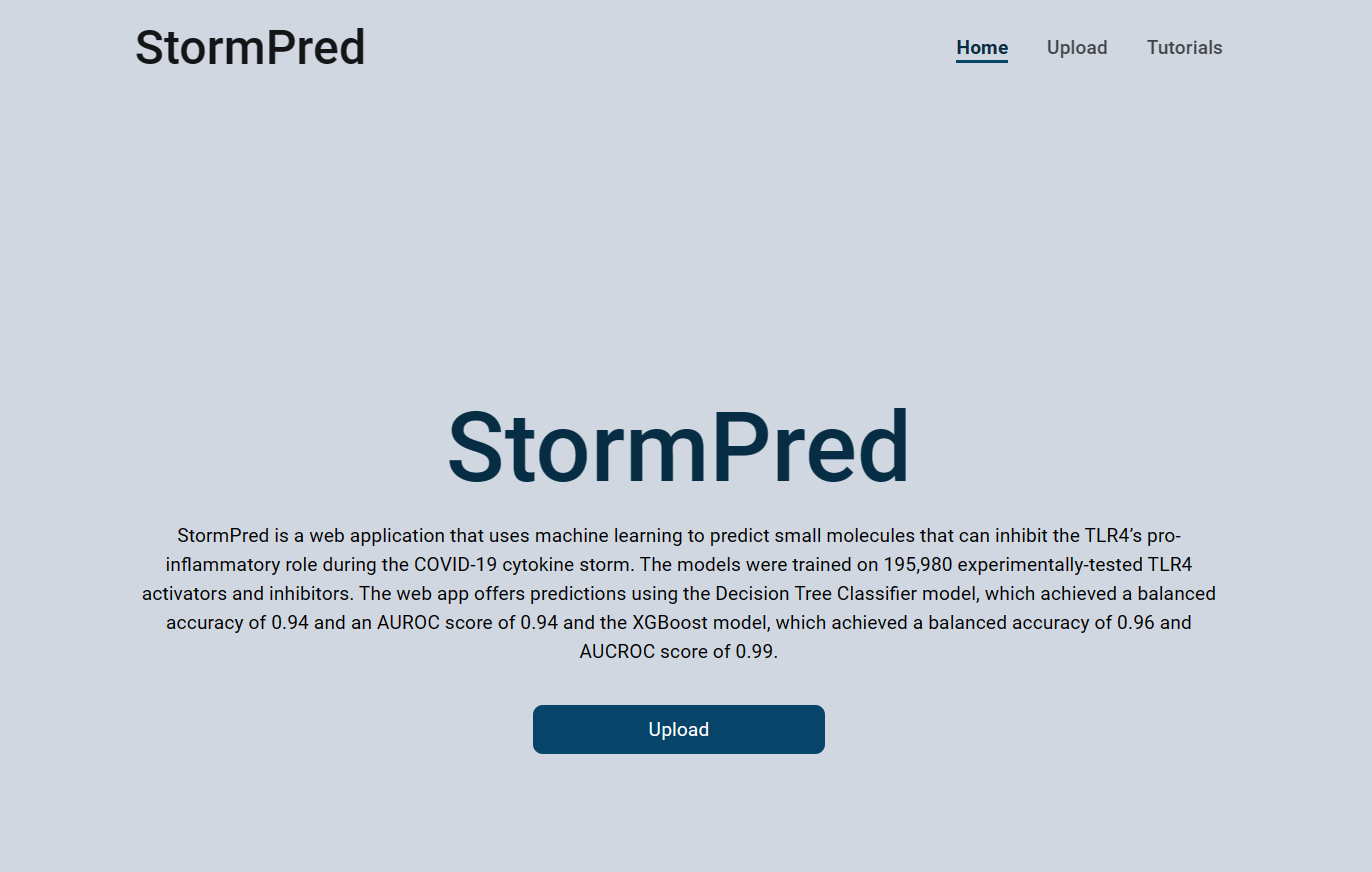
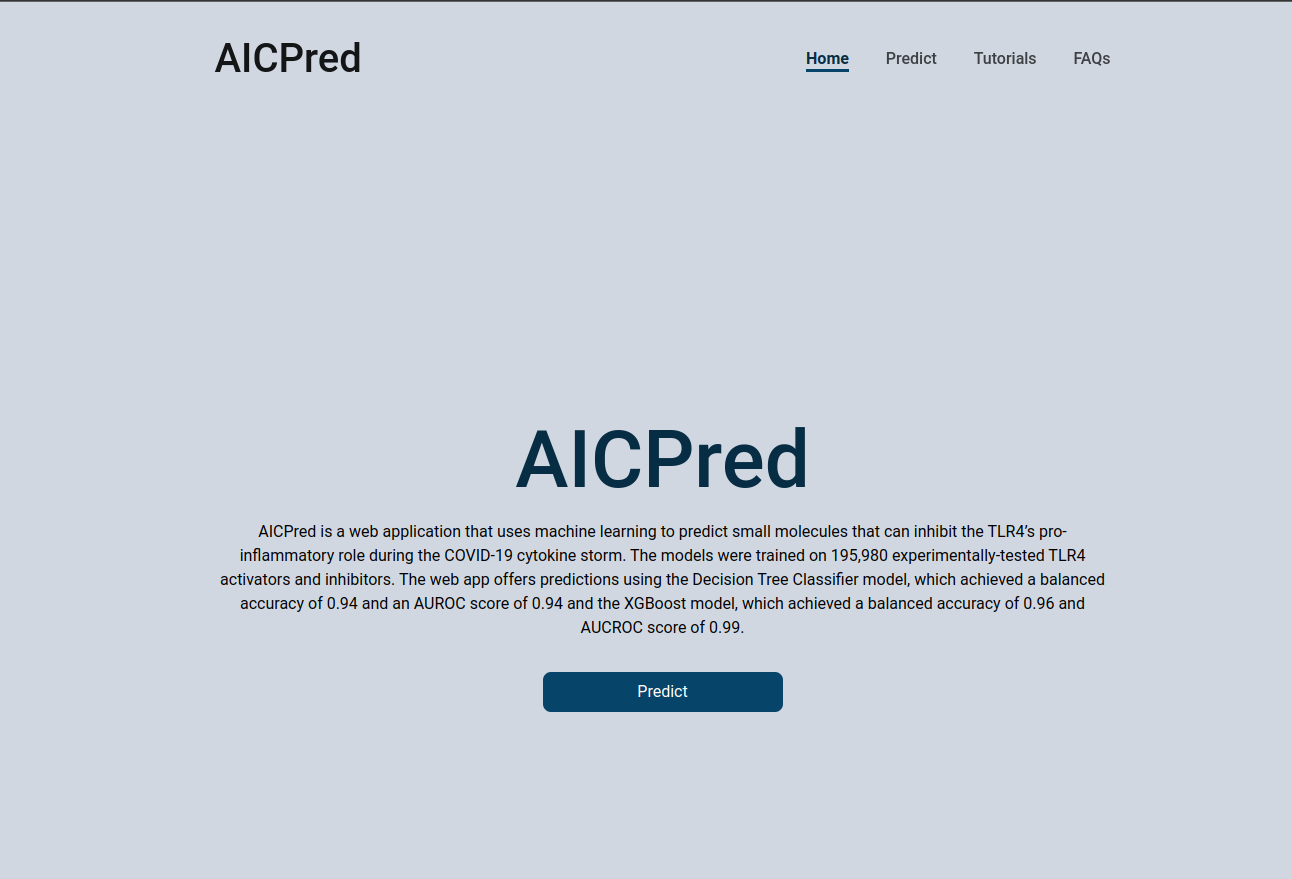
change stormpred --> aicpred

diff --git a/covidml/templates/home.html b/covidml/templates/home.html
@@ -14,10 +14,10 @@
 
 {% block content %}
   <section class="hero-section" aria-labelledby="hero-section-title">
-    <h2 id="hero-section-title">StormPred</h2>
+    <h2 id="hero-section-title">AICPred</h2>
 
     <div class="hero-section__content">
-      <p>StormPred is a web application that uses machine learning to predict small molecules that can inhibit the TLR4’s pro-inflammatory role during the COVID-19 cytokine storm. The models were trained on 195,980 experimentally-tested TLR4 activators and inhibitors. The web app offers predictions using the Decision Tree Classifier model, which achieved a balanced accuracy of 0.94 and an AUROC score of 0.94 and the XGBoost model, which achieved a balanced accuracy of 0.96 and AUCROC score of 0.99.</p>
+      <p>AICPred is a web application that uses machine learning to predict small molecules that can inhibit the TLR4’s pro-inflammatory role during the COVID-19 cytokine storm. The models were trained on 195,980 experimentally-tested TLR4 activators and inhibitors. The web app offers predictions using the Decision Tree Classifier model, which achieved a balanced accuracy of 0.94 and an AUROC score of 0.94 and the XGBoost model, which achieved a balanced accuracy of 0.96 and AUCROC score of 0.99.</p>
 
       <a class="btn" href="/upload">Predict</a>
     </div>

diff --git a/covidml/templates/upload.html b/covidml/templates/upload.html
@@ -54,7 +54,7 @@
 
       <div class="upload-section__form-tabpanel" role="tabpanel" role="tabpanel" id="smiles-tabpanel" aria-labelledby="smiles-tab" data-active="false">
         <div class="upload-section__form-container">
-          <h2 class="section-title">StormPred</h2>
+          <h2 class="section-title">AICPred</h2>
           <p>Enter Compound's PubChem CID and SMILES to make a prediction.</p>
           <button type="button" class="upload-section__example-btn btn btn--secondary">Use example molecule</button>
     
@@ -75,7 +75,7 @@
       </div>
       <div class="upload-section__form-tabpanel" role="tabpanel" id="file-tabpanel" aria-labelledby="file-tab" data-active="false">
         <div class="upload-section__form-container">
-          <h2 class="section-title">StormPred</h2>
+          <h2 class="section-title">AICPred</h2>
           <p>Upload a text file containing compound PubChem IDs and SMILES to make a prediction.</p>
   
           <form id="file-upload-form" class="upload-section__form" method="POST" action="{{ url_for('upload_page') }}?tab=file" aria-label="Upload" enctype="multipart/form-data">

diff --git a/covidml/templates/base.html b/covidml/templates/base.html
@@ -15,7 +15,7 @@
     {% block style %}
     {% endblock %}
     
-    <title>StormPred | {% block title %}{% endblock %}</title>
+    <title>AICPred | {% block title %}{% endblock %}</title>
   </head>
   
   <body>
@@ -23,7 +23,7 @@
       <div class="main-header__content">
         <div class="main-logo">
           <h1>
-            <a href="/" {% if request.path == '/' %}aria-current="page"{% endif %}>StormPred</a>
+            <a href="/" {% if request.path == '/' %}aria-current="page"{% endif %}>AICPred</a>
           </h1>
         </div>
   

diff --git a/covidml/templates/upload_file.html b/covidml/templates/upload_file.html
@@ -46,7 +46,7 @@
   {% endwith %}
     <section class="upload-section" aria-label="Upload SMILES">
         <div class="upload-section__form-container">
-          <h2 class="section-title">StormPred</h2>
+          <h2 class="section-title">AICPred</h2>
           <p>Upload a text file containing compound PubChem IDs and SMILES to make a prediction.</p>
       
           <form id="upload-form" class="upload-section__form" method="POST" action="{{ url_for('upload_file_page') }}" aria-label="Upload" enctype="multipart/form-data">

diff --git a/covidml/templates/tutorials.html b/covidml/templates/tutorials.html
@@ -27,7 +27,7 @@
 
 {% block content %}
   <div class="tutorial-section">
-    <h2 class="section-title">Getting started with StormPred</h2>
+    <h2 class="section-title">Getting started with AICPred</h2>
 
     {% for step in steps %}
       <div class="tutorial-section__step">

diff --git a/covidml/faq_contacts.py b/covidml/faq_contacts.py
@@ -1,11 +1,11 @@
 def faqs():
     faqs_list = [
-        {'question': 'How does StormPred work? ', 'answer': 'StormPred uses machine learning models trained on experimentally-tested TLR4 inhibitors to predict the inhibitive capacity of small anti-inflammatory molecules against the TLR4 receptor.'},
-        {'question': 'Is StormPred free to use?', 'answer': 'Yes. This web app is completely free.'},
-        {'question': 'What kind of data do I need to provide to use StormPred?', 'answer': 'No personal data is collected. Users only need to provide data on the compound.'},
-        {'question': 'Is StormPred for professionals only?', 'answer': 'No. Anyone can use this web app as long as they have their data.'},
-        {'question': 'How accurate are the predictions made by StormPred?', 'answer': 'The XGBoost and Decision Tree models were able to predict all experimentally validated inhibitors of TLR4 as active with a confidence range of 0.83-1.00. This makes StormPred reliable.'},
-        {'question': 'How can I provide feedback or report issues with StormPred?', 'answer': 'In case of any feedback or issues, please contact our support team at support@stormpred.com.'}
+        {'question': 'How does AICPred work? ', 'answer': 'AICPred uses machine learning models trained on experimentally-tested TLR4 inhibitors to predict the inhibitive capacity of small anti-inflammatory molecules against the TLR4 receptor.'},
+        {'question': 'Is AICPred free to use?', 'answer': 'Yes. This web app is completely free.'},
+        {'question': 'What kind of data do I need to provide to use AICPred?', 'answer': 'No personal data is collected. Users only need to provide data on the compound.'},
+        {'question': 'Is AICPred for professionals only?', 'answer': 'No. Anyone can use this web app as long as they have their data.'},
+        {'question': 'How accurate are the predictions made by AICPred?', 'answer': 'The XGBoost and Decision Tree models were able to predict all experimentally validated inhibitors of TLR4 as active with a confidence range of 0.83-1.00. This makes AICPred reliable.'},
+        {'question': 'How can I provide feedback or report issues with AICPred?', 'answer': 'In case of any feedback or issues, please contact our support team at kwakucyril@gmail.com'}
         # Add more FAQ objects as needed
     ]
     

diff --git a/README.md b/README.md
@@ -1,4 +1,4 @@
-# StormPred
+# AICPred
 
 ## About
 
